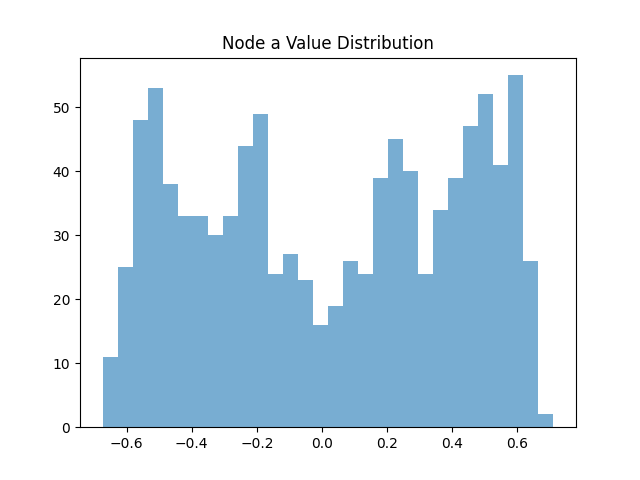
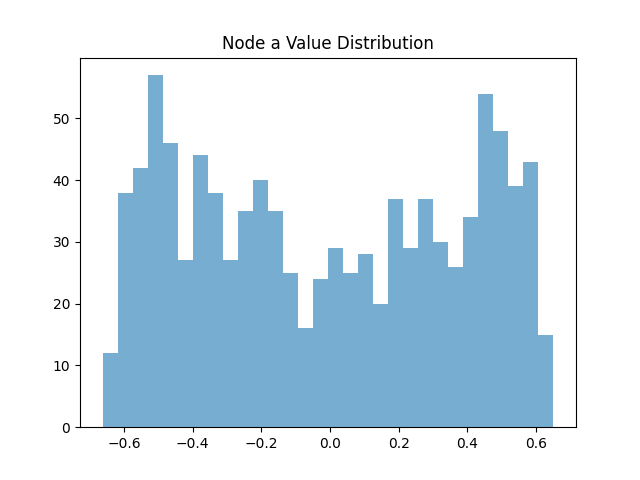
added color to 3d space parameter and visual analysis now works

diff --git a/v1.1/python/cycleAnalysis.js b/v1.1/python/cycleAnalysis.js
@@ -192,7 +192,7 @@ document.getElementById('cycleAnalysisTab').onclick = async () => {
 
     try {
         // Send POST request to Flask backend
-        const response = await fetch('https://loopyv2.onrender.com/cycle-analysis', {
+        const response = await fetch('http://127.0.0.1:5000/cycle-analysis', {
             method: 'POST',
             headers: { 'Content-Type': 'application/json' },
             body: JSON.stringify(payload)
@@ -240,7 +240,7 @@ document.getElementById('crisisAnalysisTab').addEventListener('click', async (ev
         console.log("Payload:", requestData);
 
         // Fetch plot from the backend
-        const response = await fetch('https://loopyv2.onrender.com/crisis-analysis', {
+        const response = await fetch('http://127.0.0.1:5000/crisis-analysis', {
             method: 'POST',
             headers: { 'Content-Type': 'application/json' },
             body: JSON.stringify(requestData)
@@ -287,7 +287,7 @@ document.getElementById('degreeCentralityTab').onclick = async () => {
 
     try {
         // Send POST request to the backend
-        const response = await fetch('https://loopyv2.onrender.com/degree-centrality', {
+        const response = await fetch('http://127.0.0.1:5000/degree-centrality', {
             method: 'POST',
             headers: { 'Content-Type': 'application/json' },
             body: JSON.stringify(payload)
@@ -317,14 +317,24 @@ document.getElementById('degreeCentralityTab').onclick = async () => {
 document.getElementById('visualAnalysisTab').onclick = async () => {
     showLoadingSpinner();
     try {
+        // Load initial data to populate edgePairs and edgePolarities
+        await loadInitialData();
+        
+        // Check if we have valid data
+        if (edgePairs.length === 0) {
+            throw new Error("No edges found in the current graph. Please create a graph with nodes and edges first.");
+        }
+        
         // Prepare data payload to send to the backend
         const payload = {
             edges: edgePairs,             // Example: [["A", "B"], ["B", "C"]]
             edge_polarities: edgePolarities // Example: ["+", "–"]
         };
 
+        console.log("Visual Analysis Payload:", payload);
+
         // Send a POST request to the Flask backend
-        const response = await fetch('https://loopyv2.onrender.com/visual-analysis', {
+        const response = await fetch('http://127.0.0.1:5000/visual-analysis', {
             method: 'POST',
             headers: { 'Content-Type': 'application/json' },
             body: JSON.stringify(payload)
@@ -334,23 +344,46 @@ document.getElementById('visualAnalysisTab').onclick = async () => {
             throw new Error(`Failed to fetch visual analysis: ${response.statusText}`);
         }
 
-        const { plots } = await response.json(); // Retrieve file paths for plots
+        const result = await response.json();
+        
+        // Check if there's an error in the response
+        if (result.error) {
+            throw new Error(`Backend error: ${result.error}`);
+        }
+        
+        const { plots } = result; // Retrieve file paths for plots
 
         // Display the plots dynamically
         const plotsContainer = document.getElementById('visualAnalysisPlots');
         plotsContainer.innerHTML = ''; // Clear existing plots
 
+        if (!plots || plots.length === 0) {
+            plotsContainer.innerHTML = '<div class="error">No plots were generated. This might be due to insufficient data or graph structure.</div>';
+            return;
+        }
+
         plots.forEach(plotPath => {
             const img = document.createElement('img');
-            img.src = `https://loopyv2.onrender.com/get-plot/${plotPath}`;
+            img.src = `http://127.0.0.1:5000/get-plot/${plotPath}`;
             img.alt = 'Visual Analysis Plot';
+            img.style.maxWidth = '100%';
+            img.style.height = 'auto';
+            img.style.margin = '10px';
+            img.style.border = '1px solid #ddd';
+            img.style.borderRadius = '5px';
             plotsContainer.appendChild(img);
         });
 
         openPage('VisualAnalysis'); // Open the Visual Analysis Tab
     } catch (error) {
         console.error("Error fetching visual analysis:", error);
-        alert(`Error: ${error.message}`);
+        
+        // Display error in the plots container
+        const plotsContainer = document.getElementById('visualAnalysisPlots');
+        plotsContainer.innerHTML = `<div class="error">Error: ${error.message}</div>`;
+        
+        // Still open the tab to show the error
+        openPage('VisualAnalysis');
     } finally {
         hideLoadingSpinner();
     }
@@ -377,7 +410,7 @@ document.getElementById('correlationTab').addEventListener('click', async (event
         console.log("Payload:", requestData);
 
         // Fetch correlation plot from the backend
-        const response = await fetch('https://loopyv2.onrender.com/correlation-analysis', {
+        const response = await fetch('http://127.0.0.1:5000/correlation-analysis', {
             method: 'POST',
             headers: { 'Content-Type': 'application/json' },
             body: JSON.stringify(requestData)
@@ -434,7 +467,7 @@ document.getElementById("genereatedDelayDecay").onclick = async () => {
     console.log("Request Data for Stability Map:", requestData);
 
     try {
-        const response = await fetch("https://loopyv2.onrender.com/generate-stability-map", {
+        const response = await fetch("http://127.0.0.1:5000/generate-stability-map", {
             method: "POST",
             headers: { "Content-Type": "application/json" },
             body: JSON.stringify(requestData),
@@ -488,7 +521,7 @@ document.getElementById("generateDecayRetention").onclick = async () => {
       };
   
       // 4. Send POST to the Flask route
-      const response = await fetch("https://loopyv2.onrender.com/generate-decay-retention-map", {
+      const response = await fetch("http://127.0.0.1:5000/generate-decay-retention-map", {
         method: "POST",
         headers: { "Content-Type": "application/json" },
         body: JSON.stringify(requestData),
@@ -546,7 +579,7 @@ document.getElementById("generateRetentionDelay").onclick = async () => {
 
         console.log("Request Data for Retention-Delay Map:", requestData);
 
-        const response = await fetch("https://loopyv2.onrender.com/generate-retention-delay-map", {
+        const response = await fetch("http://127.0.0.1:5000/generate-retention-delay-map", {
             method: "POST",
             headers: { "Content-Type": "application/json" },
             body: JSON.stringify(requestData),
@@ -580,7 +613,7 @@ document.getElementById('simulationTab').onclick = async () => {
         console.log('Payload:', { time_series_data: timeSeriesData });
 
         // Send data to the backend for simulation
-        const response = await fetch('https://loopyv2.onrender.com/simulation', {
+        const response = await fetch('http://127.0.0.1:5000/simulation', {
             method: 'POST',
             headers: {
                 'Content-Type': 'application/json',
@@ -621,7 +654,7 @@ document.getElementById('simulation2Tab').onclick = async () => {
 
     try {
         // Send data to the backend for simulation
-        const response = await fetch('https://loopyv2.onrender.com/simulation2', {
+        const response = await fetch('http://127.0.0.1:5000/simulation2', {
             method: 'POST',
             headers: {
                 'Content-Type': 'application/json',
@@ -660,7 +693,7 @@ document.getElementById('boxPlotTab').onclick = async () => {
 
     try {
         // Send data to the backend for boxplot generation
-        const response = await fetch('https://loopyv2.onrender.com/boxplots', {
+        const response = await fetch('http://127.0.0.1:5000/boxplots', {
             method: 'POST',
             headers: {
                 'Content-Type': 'application/json',
@@ -699,7 +732,7 @@ document.getElementById('violinPlotTab').onclick = async () => {
 
     try {
         // Send data to the backend for violin plot generation
-        const response = await fetch('https://loopyv2.onrender.com/violinplots', {
+        const response = await fetch('http://127.0.0.1:5000/violinplots', {
             method: 'POST',
             headers: {
                 'Content-Type': 'application/json',
@@ -744,7 +777,7 @@ document.getElementById('randomSeedsTab').onclick = async () => {
             edge_polarities: edgePolarities
         };
 
-        const response = await fetch('https://loopyv2.onrender.com/random-seeds', {
+        const response = await fetch('http://127.0.0.1:5000/random-seeds', {
             method: 'POST',
             headers: { 'Content-Type': 'application/json' },
             body: JSON.stringify(payload)
@@ -799,7 +832,7 @@ document.addEventListener('DOMContentLoaded', () => {
                             console.log("Activating Researcher Mode and initializing payments...");
 
                             // Call your backend to create a checkout session
-                            const response = await fetch('https://loopyv2.onrender.com/create-checkout-session', {
+                            const response = await fetch('http://127.0.0.1:5000/create-checkout-session', {
                                 method: 'POST',
                                 headers: { 'Content-Type': 'application/json' },
                                 body: JSON.stringify({ amount: 2000 }) // $20.00 in cents

diff --git a/v1.1/js/paramSpace3D.js b/v1.1/js/paramSpace3D.js
@@ -278,9 +278,9 @@ class ParamSpace3D {
                         
                         // Combined score
                         const combinedScore = (
-                            params.distanceWeight * distance +
-                            params.zScoreWeight * zScore +
-                            params.shapeWeight * shape
+                            params.weights.distance * distance +
+                            params.weights.zScore * zScore +
+                            params.weights.shape * shape
                         );
 
                         results.push({
@@ -411,8 +411,8 @@ class ParamSpace3D {
         let nodeCount = 0;
         
         for (const [nodeId, series] of Object.entries(history)) {
-            if (series.length >= params.zScoreWindow) {
-                const zScores = this.calculateRollingZScores(series, params.zScoreWindow);
+            if (series.length >= params.simulation.zWindow) {
+                const zScores = this.calculateRollingZScores(series, params.simulation.zWindow);
                 const maxZScore = Math.max(...zScores.map(Math.abs));
                 totalZScore += maxZScore;
                 nodeCount++;
@@ -834,8 +834,19 @@ fig2d.update_layout(xaxis_title="Decay Factor", yaxis_title="Retention")
     }
 
     create3DPlotData(results) {
-        // Sort results by stability score (best first)
-        const sortedResults = results.sort((a, b) => b.stability - a.stability);
+        // Sort results by combined score (best first)
+        const sortedResults = results.sort((a, b) => a.metrics.combinedScore - b.metrics.combinedScore);
+        
+        // Calculate color range based on combined scores for better color variation
+        const scores = sortedResults.map(r => r.metrics.combinedScore);
+        const minScore = Math.min(...scores);
+        const maxScore = Math.max(...scores);
+        const scoreRange = maxScore - minScore;
+        
+        // Normalize scores to 0-1 range for better color mapping
+        const normalizedScores = scores.map(score => 
+            scoreRange > 0 ? (score - minScore) / scoreRange : 0.5
+        );
         
         return {
             x: sortedResults.map(r => r.retention),
@@ -845,11 +856,19 @@ fig2d.update_layout(xaxis_title="Decay Factor", yaxis_title="Retention")
             type: 'scatter3d',
             marker: {
                 size: 8,
-                color: sortedResults.map(r => r.stability),
+                color: normalizedScores,
                 colorscale: 'Viridis',
                 opacity: 0.8,
                 colorbar: {
-                    title: "Stability Score"
+                    title: "Combined Score",
+                    tickvals: [0, 0.25, 0.5, 0.75, 1],
+                    ticktext: [
+                        minScore.toFixed(3),
+                        (minScore + scoreRange * 0.25).toFixed(3),
+                        (minScore + scoreRange * 0.5).toFixed(3),
+                        (minScore + scoreRange * 0.75).toFixed(3),
+                        maxScore.toFixed(3)
+                    ]
                 }
             },
             text: sortedResults.map(r => 
@@ -857,6 +876,10 @@ fig2d.update_layout(xaxis_title="Decay Factor", yaxis_title="Retention")
                 `Decay: ${r.decay.toFixed(3)}<br>` +
                 `Delay: ${r.delay}<br>` +
                 `Stability: ${r.stability.toFixed(3)}<br>` +
+                `Combined Score: ${r.metrics.combinedScore.toFixed(3)}<br>` +
+                `Distance: ${r.metrics.distance.toFixed(3)}<br>` +
+                `Z-Score: ${r.metrics.zScore.toFixed(3)}<br>` +
+                `Shape: ${r.metrics.shape.toFixed(3)}<br>` +
                 `Behavior: ${Object.keys(r.behavior).map(nodeId => 
                     `${nodeId}: ${r.behavior[nodeId].behavior}`
                 ).join(', ')}`

diff --git a/v1.1/styles.css b/v1.1/styles.css
@@ -811,3 +811,34 @@ h4 {
 #ViewDatabase button#refreshDatabaseButton:hover {
     background-color: #219150;
 }
+
+/* Error and Status Message Styles */
+.error {
+    color: #dc3545;
+    background-color: #f8d7da;
+    border: 1px solid #f5c6cb;
+    border-radius: 4px;
+    padding: 12px;
+    margin: 10px 0;
+    font-weight: bold;
+}
+
+.success {
+    color: #155724;
+    background-color: #d4edda;
+    border: 1px solid #c3e6cb;
+    border-radius: 4px;
+    padding: 12px;
+    margin: 10px 0;
+    font-weight: bold;
+}
+
+.loading {
+    color: #0c5460;
+    background-color: #d1ecf1;
+    border: 1px solid #bee5eb;
+    border-radius: 4px;
+    padding: 12px;
+    margin: 10px 0;
+    font-weight: bold;
+}

diff --git a/backend/app.py b/backend/app.py
@@ -28,7 +28,7 @@ load_dotenv()
 
 
 app = Flask(__name__)
-CORS(app, resources={r"/*": {"origins": "https://loopy-v2.vercel.app"}}, supports_credentials=True)
+CORS(app, resources={r"/*": {"origins": ["https://loopy-v2.vercel.app", "http://127.0.0.1:5501", "http://localhost:5501", "http://127.0.0.1:3000", "http://localhost:3000"]}}, supports_credentials=True)
 
 
 